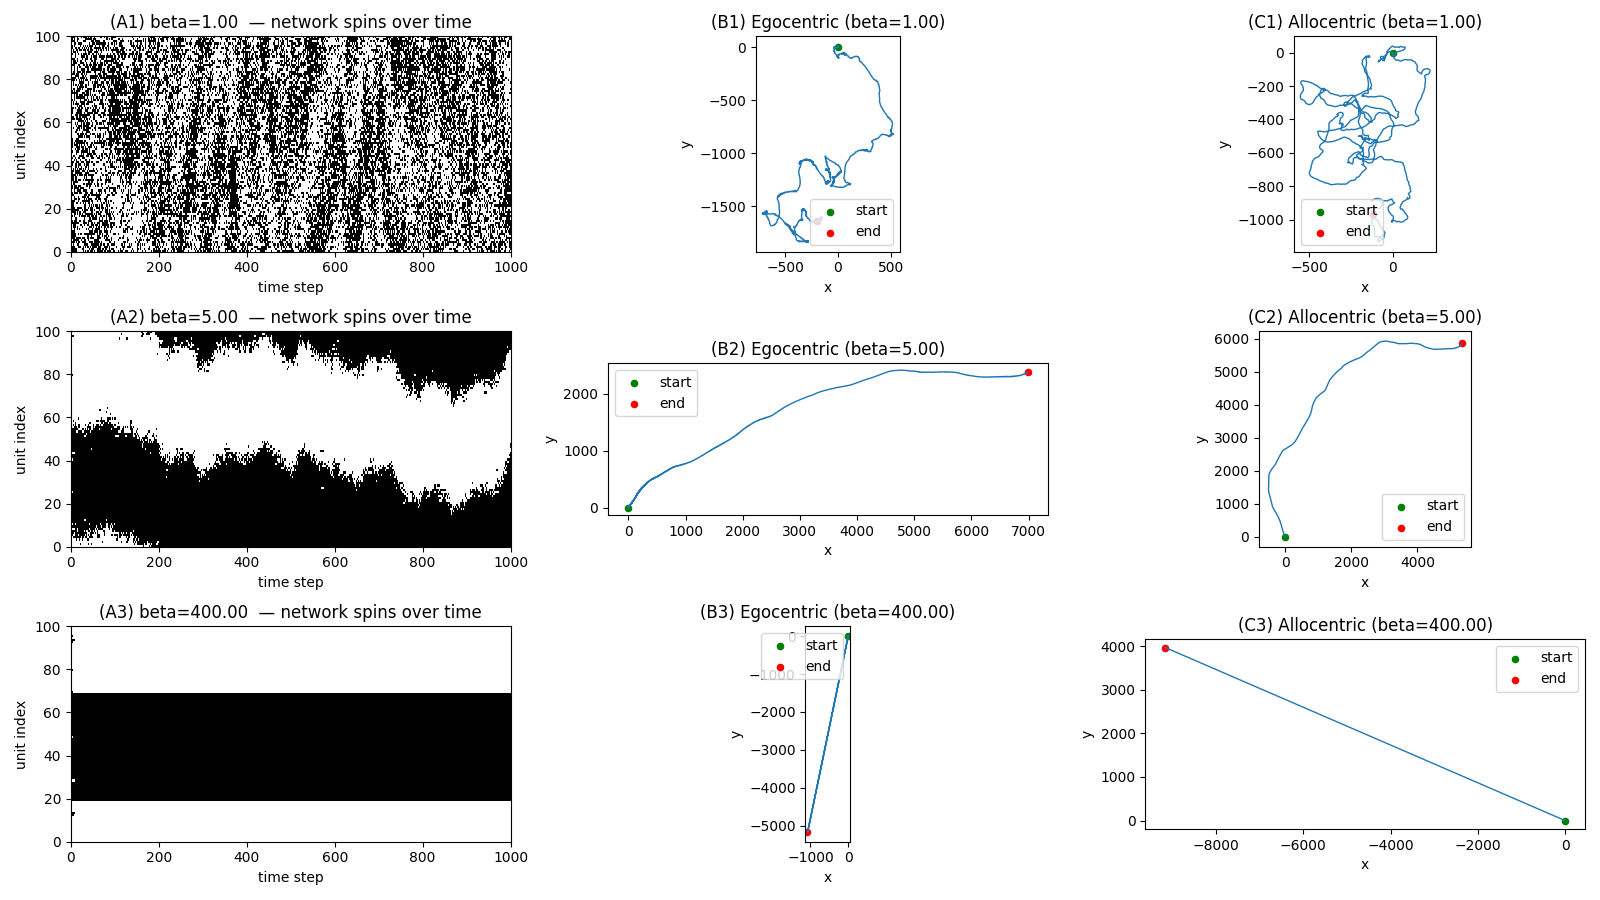
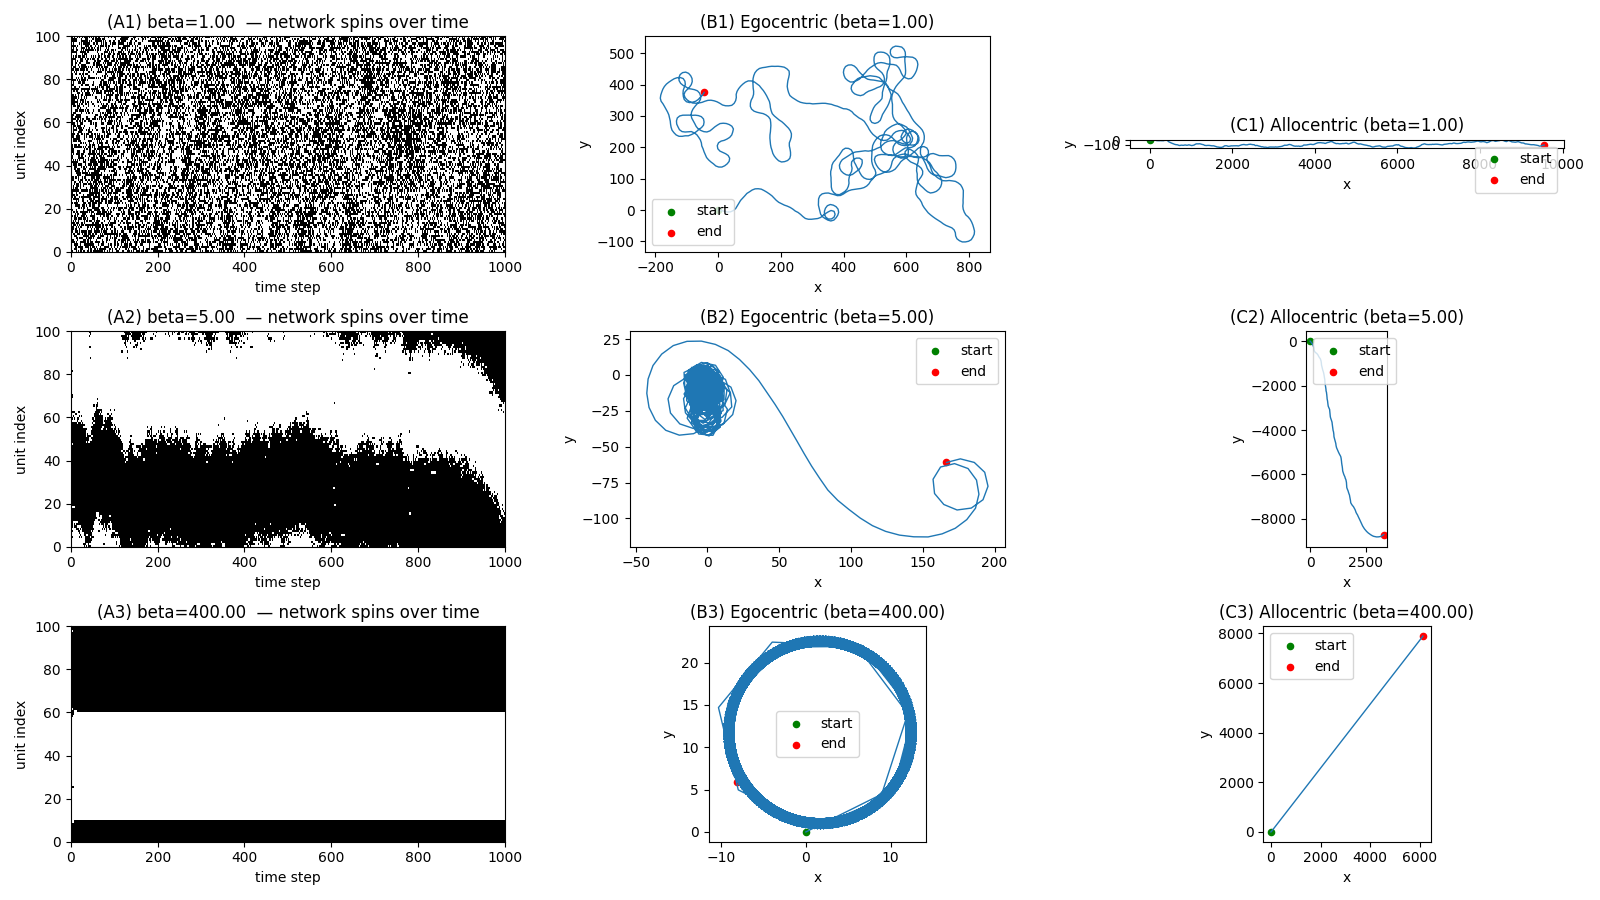
add target and non target

diff --git a/index2.py b/index2.py
@@ -1,0 +1,200 @@
+import numpy as np
+import math
+import matplotlib.pyplot as plt
+
+np.random.seed(1)
+
+Ns = 100
+L = 1000     
+v0 = 10.0              
+sigma_ang = 2*np.pi / Ns
+h0 = 0.0025
+hb = 0.0
+
+target_pos = np.array([5000.0, 5000.0])  
+
+
+# for each neuron group what is the angles ????
+thetas = np.arange(Ns) * sigma_ang
+
+# So without wrapping, neurons on opposite ends of the ring look maximally far apart, breaking the ring’s continuity
+def circ_dist(a, b):
+    d = np.abs(a - b)
+    return np.minimum(d, 2*np.pi - d)
+
+# synaptic connectivity of the network, J with parameter v
+v = 0.5  # shape parameter
+dist = circ_dist(thetas[:, None], thetas[None, :])
+J = np.cos(np.pi * (dist / np.pi) ** v)
+
+# list of beta values to sweep (low -> high order)
+beta_list = [400.0] #1.0,5.0,
+
+# number of attempted spin updates per motion step
+t0 = 0.5
+updates_per_step = int(round(Ns * t0))
+
+# wrap to [-pi,pi]
+def wrap_pi(x):
+    return (x + np.pi) % (2*np.pi) - np.pi
+
+# compute Hamiltonian for the system
+def compute_H(spins, J, h_ext, hb, Ns):
+    quad = (1.0 / Ns) * (spins @ (J @ spins))
+    linear = ((h_ext * spins) - (hb * spins)).sum()
+    H = - (quad + linear)
+    return H
+
+def compute_h_ext(mode,pos_now,heading_ego):
+    # --- Compute dynamic external field depending on mode ---
+    if mode == 'allocentric':
+        # absolute direction from agent to target
+        dx, dy = target_pos - pos_now
+        theta_target = np.arctan2(dy, dx)
+        if(theta_target < 0):
+            theta_target = theta_target + 2*np.pi
+        
+        thethaDegree = math.degrees(theta_target)
+        print("Angle theta_target (degrees):", thethaDegree)
+        difference_target = circ_dist(thetas, theta_target)
+        hext = (h0 / np.sqrt(2 * np.pi * sigma_ang**2)) * np.exp(-((difference_target) ** 2) / (2 * sigma_ang**2))
+        return hext
+    else:
+        # relative direction from current heading to target
+        dx, dy = target_pos - pos_now
+        theta_abs = np.arctan2(dy, dx)
+        theta_target = theta_abs - heading_ego
+        return (h0 / np.sqrt(2 * np.pi * sigma_ang**2)) * np.exp(-((thetas - theta_target) ** 2) / (2 * sigma_ang**2))
+
+def run_sim(beta, mode='allocentric'):
+    # initial random spins
+    spins = np.random.choice([-1, 1], size=(Ns,))
+    spins_history = np.zeros((L, Ns), dtype=int)
+
+    pop_angles = np.zeros(L)
+
+    # agent init
+    pos = np.zeros((L, 2))
+    heading_ego = np.random.uniform(0, 2*np.pi) 
+    heading_alloc = 0.0
+
+    x0, y0 = 0.0, 0.0
+    pos[0] = np.array([x0, y0])
+
+    for t in range(L):
+        h_ext = compute_h_ext(mode,pos[t],heading_ego)
+        for _ in range(updates_per_step):
+            i = np.random.randint(Ns)    
+            # compute current energy
+            H_before = compute_H(spins, J, h_ext, hb, Ns)
+
+            # flip of spin i
+            spins_proposed = spins.copy()
+            spins_proposed[i] = -spins_proposed[i]
+
+            # compute new energy
+            H_after = compute_H(spins_proposed, J, h_ext, hb, Ns)
+
+            # delta H = H(after) - H(before)
+            delta_H = H_after - H_before
+            if delta_H < 0:
+                spins[i] = -spins[i] # Energy difference negative then flip
+            else:
+                # Energy difference positive — accept with probability exp(-beta * delta_H)
+                if np.random.rand() < np.exp(-beta * delta_H):
+                    spins[i] = -spins[i]
+
+        spins_history[t] = spins.copy()
+
+        active = spins > 0
+        n_active = np.count_nonzero(active)
+        if n_active > 0:
+            temp = (thetas[active].sum())/n_active
+            phi = temp - np.pi
+            thethaDegree = math.degrees(phi)
+            #print("Angle phi (degrees):", thethaDegree)
+        else:
+            phi = 0.0  
+        pop_angles[t] = phi
+
+        if mode == 'egocentric':
+            # egocentric motion
+            heading_ego = wrap_pi(phi + heading_ego)
+            if t < L-1:
+                pos[t+1, 0] = pos[t, 0] + v0 * np.cos(heading_ego)
+                pos[t+1, 1] = pos[t, 1] + v0 * np.sin(heading_ego)
+        else:
+            # allocentric motion
+            heading_alloc = phi
+            if t < L-1:
+                pos[t+1, 0] = pos[t, 0] + v0 * np.cos(heading_alloc)
+                pos[t+1, 1] = pos[t, 1] + v0 * np.sin(heading_alloc)
+
+    return {
+        "spins_history": spins_history,
+        "pop_angles": pop_angles,
+        "pos": pos
+    }
+
+results_alloc = [run_sim(beta, mode='allocentric') for beta in beta_list]
+
+# results_alloc = [run_sim(beta, mode='allocentric') for beta in beta_list]
+# results_ego   = [run_sim(beta, mode='egocentric')  for beta in beta_list]
+
+# # Plotting - I took it from chatGPT the plotting code 
+# fig = plt.figure(figsize=(16, 9))
+# n_beta = len(beta_list)
+
+# for i, beta in enumerate(beta_list):
+#     res_ego = results_ego[i]
+
+#     # (i) network activity
+#     ax_raster = fig.add_subplot(n_beta, 3, i*3 + 1)
+#     ax_raster.imshow(res_ego["spins_history"].T, aspect='auto', origin='lower',
+#                      cmap='gray_r', interpolation='nearest', extent=[0, L, 0, Ns])
+#     ax_raster.set_title(f"(A{i+1}) β={beta:.2f} — network activity ego")
+#     ax_raster.set_xlabel("time")
+#     ax_raster.set_ylabel("unit index")
+
+#     # (ii) egocentric motion
+#     ax_ego = fig.add_subplot(n_beta, 3, i*3 + 2)
+#     posE = res_ego["pos"]
+#     ax_ego.plot(posE[:, 0], posE[:, 1])
+#     ax_ego.scatter(posE[0, 0], posE[0, 1], color='green', s=20, label='start')
+#     ax_ego.scatter(posE[-1, 0], posE[-1, 1], color='red', s=20, label='end')
+#     ax_ego.scatter(*target_pos, color='black', marker='x', s=40, label='target')
+#     ax_ego.set_title(f"(B{i+1}) Egocentric, β={beta:.2f}")
+#     ax_ego.set_aspect('equal')
+#     ax_ego.legend()
+
+
+# plt.tight_layout()
+# plt.show()
+
+fig = plt.figure(figsize=(16, 9))
+n_beta = len(beta_list)
+
+for i, beta in enumerate(beta_list):
+    res_alloc = results_alloc[i]
+
+    # (iii) network activity
+    ax_raster = fig.add_subplot(n_beta, 3, i*3 + 1)
+    ax_raster.imshow(res_alloc["spins_history"].T, aspect='auto', origin='lower',
+                     cmap='gray_r', interpolation='nearest', extent=[0, L, 0, Ns])
+    ax_raster.set_title(f"(A{i+1}) β={beta:.2f} — network activity alloc")
+    ax_raster.set_xlabel("time")
+    ax_raster.set_ylabel("unit index")
+
+    # (iv) allocentric motion
+    ax_alloc = fig.add_subplot(n_beta, 3, i*3 + 2)
+    posA = res_alloc["pos"]
+    ax_alloc.plot(posA[:, 0], posA[:, 1])
+    ax_alloc.scatter(posA[0, 0], posA[0, 1], color='green', s=20, label='start')
+    ax_alloc.scatter(posA[-1, 0], posA[-1, 1], color='red', s=20, label='end')
+    ax_alloc.scatter(*target_pos, color='black', marker='x', s=40, label='target')
+    ax_alloc.set_title(f"(C{i+1}) Allocentric, β={beta:.2f}")
+    ax_alloc.set_aspect('equal')
+    ax_alloc.legend()
+
+plt.tight_layout()
+plt.show()

diff --git a/index.py b/index.py
@@ -1,4 +1,5 @@
 import numpy as np
+import math
 import matplotlib.pyplot as plt
 
 np.random.seed(1)
@@ -20,7 +21,7 @@ def circ_dist(a, b):
     return np.minimum(d, 2*np.pi - d)
 
 # synaptic connectivity of the network, J with parameter v
-v = 1.0  # shape parameter
+v = 0.5  # shape parameter
 dist = circ_dist(thetas[:, None], thetas[None, :])
 J = np.cos(np.pi * (dist / np.pi) ** v)
 
@@ -29,10 +30,7 @@ theta_target = 0.0
 h_ext = (h0 / np.sqrt(2 * np.pi * sigma_ang**2)) * np.exp(-((thetas - theta_target) ** 2 ) / (2 * sigma_ang**2))
 
 # list of beta values to sweep (low -> high order)
-beta_list = [1.0,5.0,400.0] #1.0,5.0,
-
-# Egocentric turning gain (how fast agent turns toward population direction)
-kappa = 0.8
+beta_list = [200.0] #1.0,5.0,
 
 # number of attempted spin updates per motion step
 t0 = 0.5
@@ -40,7 +38,7 @@ updates_per_step = int(round(Ns * t0))
 
 # wrap to [-pi,pi]
 def wrap_pi(x):
-    return (x + np.pi) % (2*np.pi) - np.pi
+    return (x % (2*np.pi))
 
 # compute Hamiltonian for the system
 def compute_H(spins, J, h_ext, hb, Ns):
@@ -59,7 +57,7 @@ def run_sim(beta):
     # agent init
     pos_alloc = np.zeros((L, 2))
     pos_ego = np.zeros((L, 2))
-    heading_ego = np.random.uniform(-np.pi, np.pi) 
+    heading_ego = 0.0
     heading_alloc = 0.0
 
     x0, y0 = 0.0, 0.0
@@ -93,9 +91,10 @@ def run_sim(beta):
         active = spins > 0
         n_active = np.count_nonzero(active)
         if n_active > 0:
-            sx = np.cos(thetas[active]).sum() / n_active
-            sy = np.sin(thetas[active]).sum() / n_active
-            phi = np.arctan2(sy, sx)
+            temp = (thetas[active].sum())/n_active
+            phi = temp - np.pi
+            thethaDegree = math.degrees(phi)
+            print("Angle (degrees):", thethaDegree)
         else:
             phi = 0.0  
         pop_angles[t] = phi
